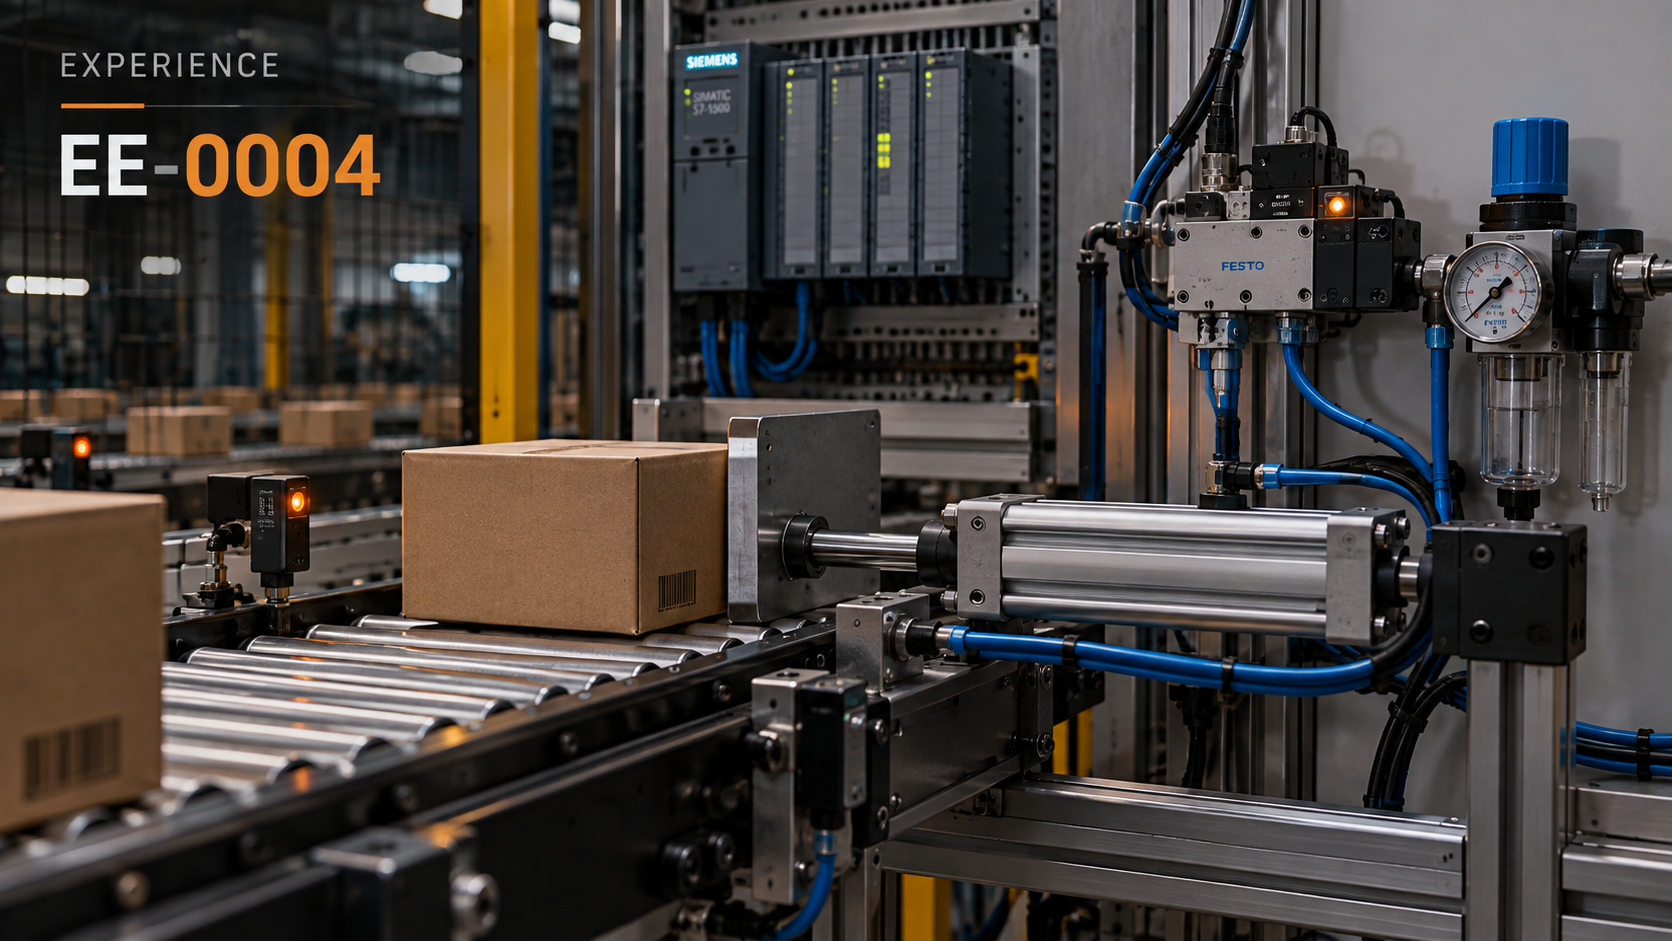
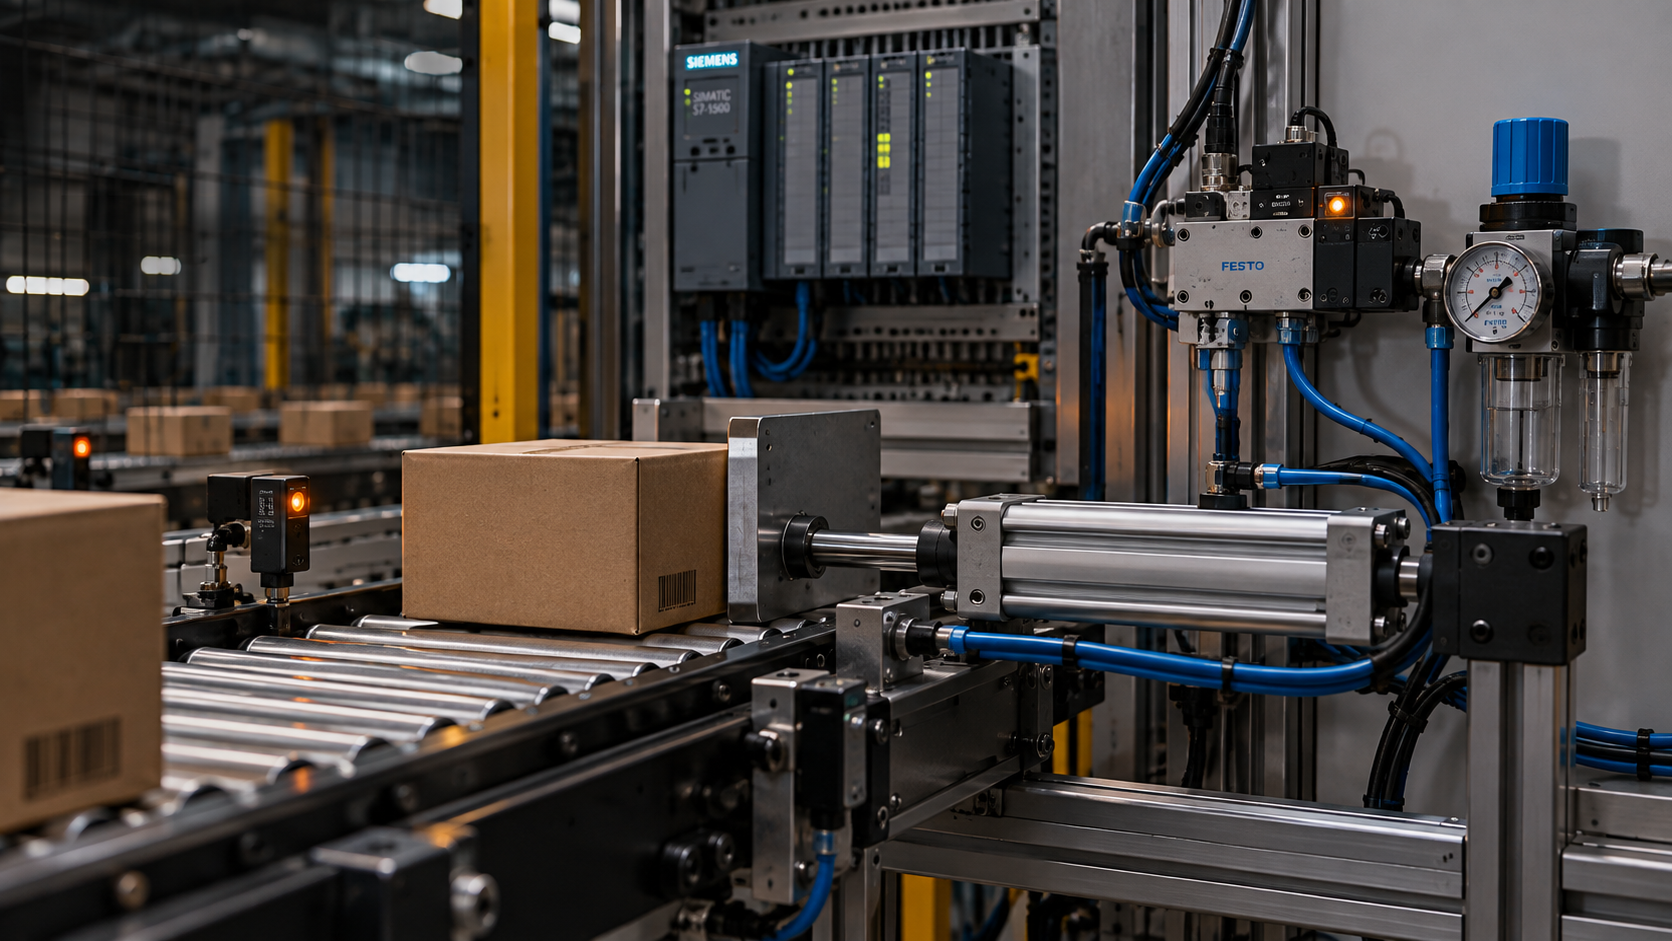
fix: remove EE-0004 cover identifier

Changed region(s): [[0.0311, 0.0308, 0.2488, 0.2465]]

diff --git a/content/experiences/pneumatics/EE-0004-pneumatic-cylinder-extension-timeout/assets/README.md b/content/experiences/pneumatics/EE-0004-pneumatic-cylinder-extension-timeout/assets/README.md
@@ -1,8 +1,8 @@
 # Approved EE-0004 assets
 
-The seven PNG files were imported unchanged from the approved delivery directory.
+The seven PNG files are the canonical Experience media. The incident cover was cleaned to remove an embedded editorial identifier before publication; the remaining six files were imported unchanged from the approved delivery directory.
 
-1. 01.png — incident cover
+1. 01.png — incident cover with the embedded `EXPERIENCE / EE-0004` title removed
 2. 02.png — PLC monitoring
 3. 03.png — Y1 solenoid and directional valve
 4. 04.png — regulated pneumatic supply
@@ -14,6 +14,6 @@ The repository copies are canonical Experience media. The technical truth remain
 
 ## Semantic limits
 
-All seven assets remain registered; no binary changes or duplicate media authority are introduced. ART-001 is editorial, ART-002 supplied initial PLC context. ART-003 through ART-006 accompany newly acquired evidence before intentional reuse as next-stage context. ART-007 appears only after D6 verification and in Debrief.
+All seven assets remain registered; no duplicate media authority is introduced. ART-001 is editorial, ART-002 supplied initial PLC context. ART-003 through ART-006 accompany newly acquired evidence before intentional reuse as next-stage context. ART-007 appears only after D6 verification and in Debrief. The ART-001 edit removes presentation text only; it does not change the authored diagnostic evidence.
 
 Y1 indication does not prove valve switching, measured voltage/current or movement. A gauge illustrates the pressure reading, not flow, alarm status or absence of leaks. ART-005 does not measure speed or elapsed time. ART-006 does not quantify adjustment or establish a complete circuit from port labels. ART-007 shows an extended rod and indicator, not a PLC tag, cycle count or timing trace. Those observations belong to the authored inspection/test evidence. Incidental gauges and indicators in earlier images are not separate diagnostic acquisitions.

diff --git a/content/experiences/pneumatics/EE-0004-pneumatic-cylinder-extension-timeout/media-source/README.md b/content/experiences/pneumatics/EE-0004-pneumatic-cylinder-extension-timeout/media-source/README.md
@@ -1,7 +1,7 @@
 # Media source
 
-The seven approved PNG masters were supplied from:
+The original seven approved PNG masters were supplied from:
 
 C:\Users\asanc\Downloads\EE-0004-assets\EE-0004-pneumatic-cylinder-extension-timeout\assets
 
-They were copied byte-for-byte into the canonical assets directory. No image was regenerated, resized, cropped, recolored or recompressed.
+The original ART-002 through ART-007 files were copied byte-for-byte into the canonical assets directory. ART-001 was edited with a referenced-image localized inpainting pass to remove the embedded `EXPERIENCE / EE-0004` title from the upper-left presentation area. The edit preserves the image dimensions and all equipment outside that title area; it does not add or alter diagnostic evidence.

diff --git a/docs/06_Changelog.md b/docs/06_Changelog.md
@@ -1,5 +1,9 @@
 # Changelog
 
+## 2026-10-24 — EE-0004 cover identifier cleanup
+
+- Removed the embedded `EXPERIENCE / EE-0004` title from the EE-0004 incident cover. The cleaned ART-001 preserves the original dimensions and equipment scene, while the Experience title remains available in the interface and the authored diagnostic evidence is unchanged.
+
 ## 2026-10-24 — Compact Experience reading rhythm
 
 - Reduced typography scale, line height and panel spacing only within interactive Experience views so diagnostic context and choices are easier to scan. Notebook, Environment catalog and other editorial presentation remain unchanged.
